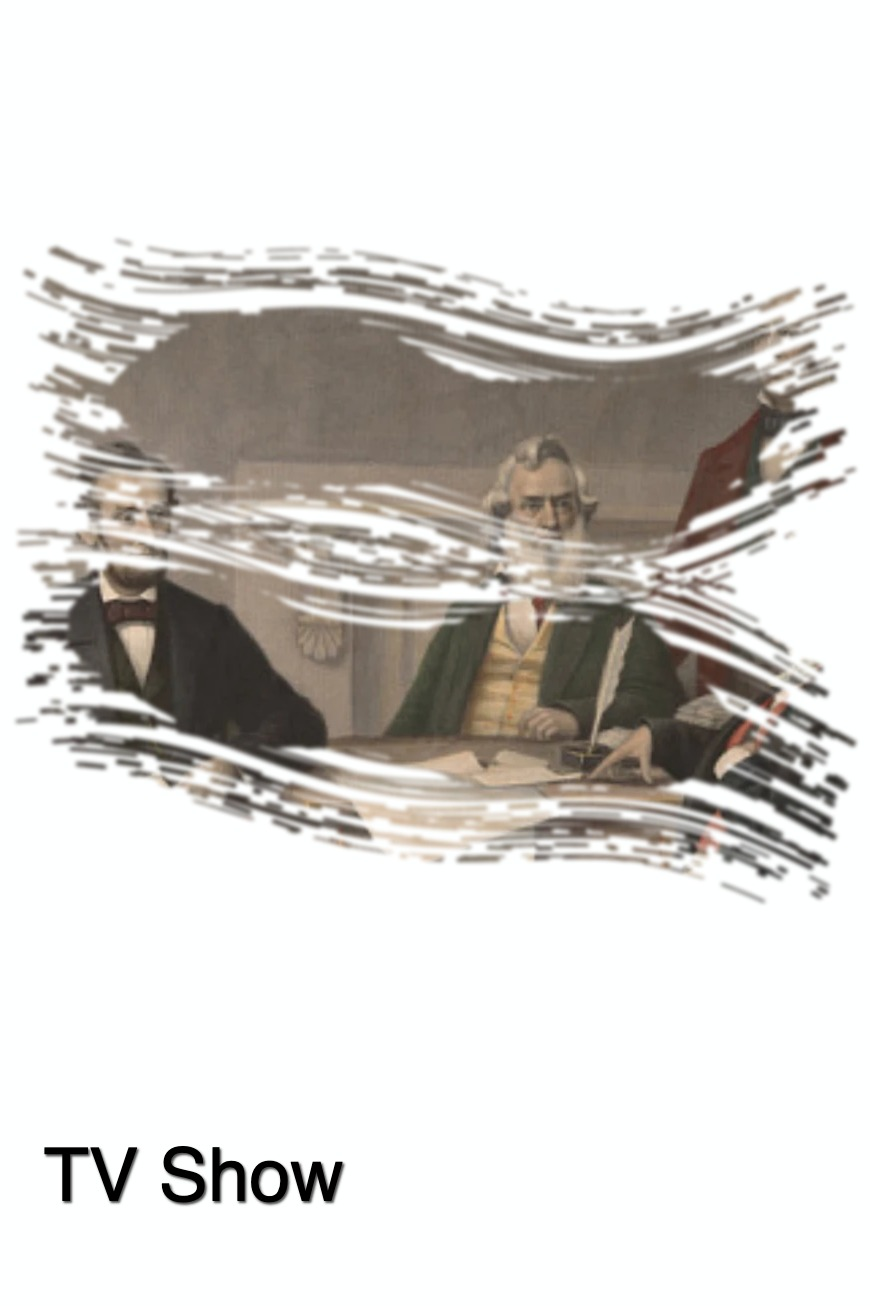
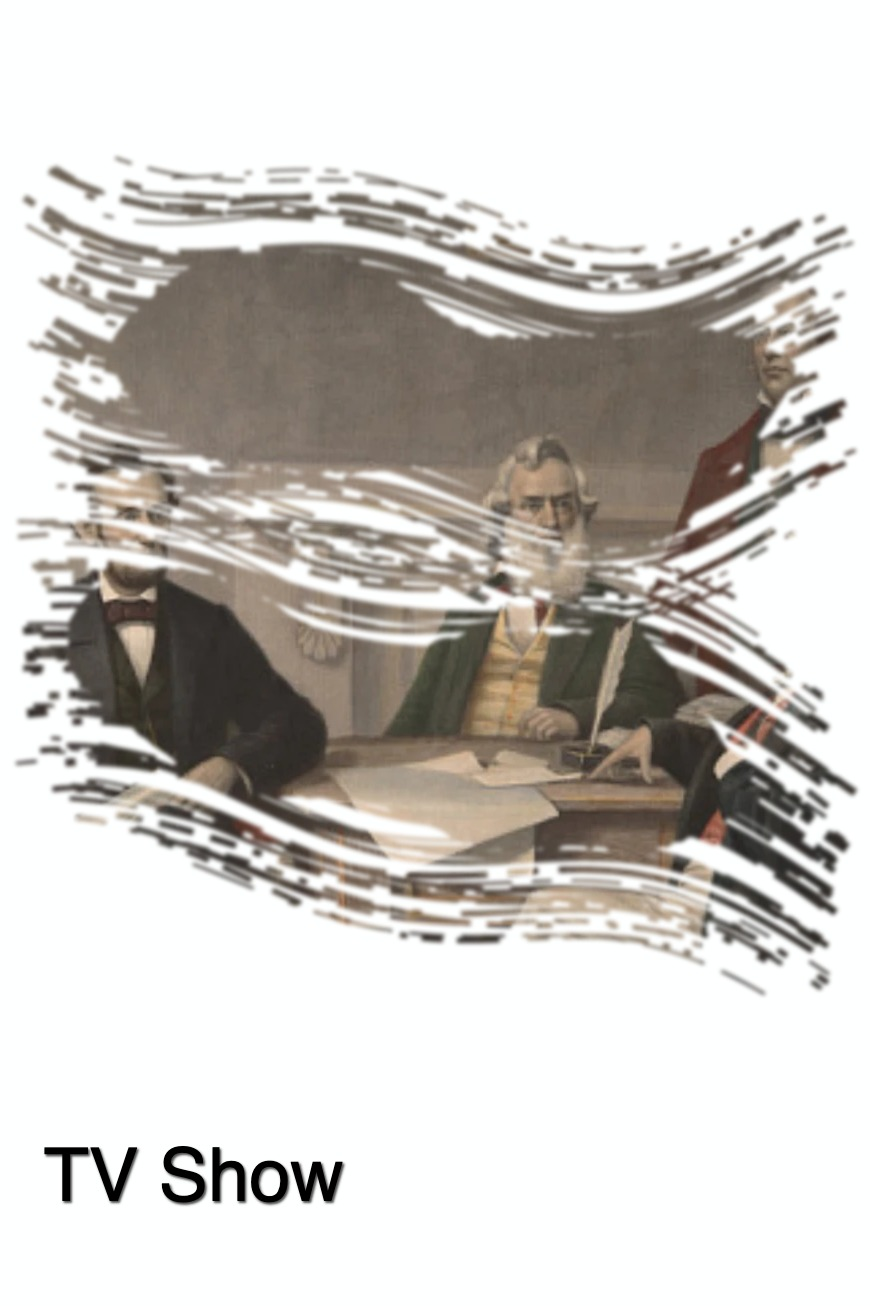
Make brush strokes thicker on tall posters, leaving the stroke layout on wide posters unchanged.

Changed region(s): [[0.0, 0.1225, 0.9931, 0.7657]]

diff --git a/Jellyfin.Plugin.EpisodePosterGenerator/Utilities/BrushStrokeBuilder.cs b/Jellyfin.Plugin.EpisodePosterGenerator/Utilities/BrushStrokeBuilder.cs
@@ -9,7 +9,7 @@ namespace Jellyfin.Plugin.EpisodePosterGenerator.Utilities
         // The tallest a stroke may be relative to its own length. A brush stroke reads as a stroke
         // only while it is longer than it is thick; past this it reads as a blob. A wide poster
         // never reaches this cap, so raising it thickens the strokes on a tall poster alone.
-        private const float MaxHeightToLengthRatio = 0.36f;
+        private const float MaxHeightToLengthRatio = 0.46f;
 
         private readonly Random _random;
 
